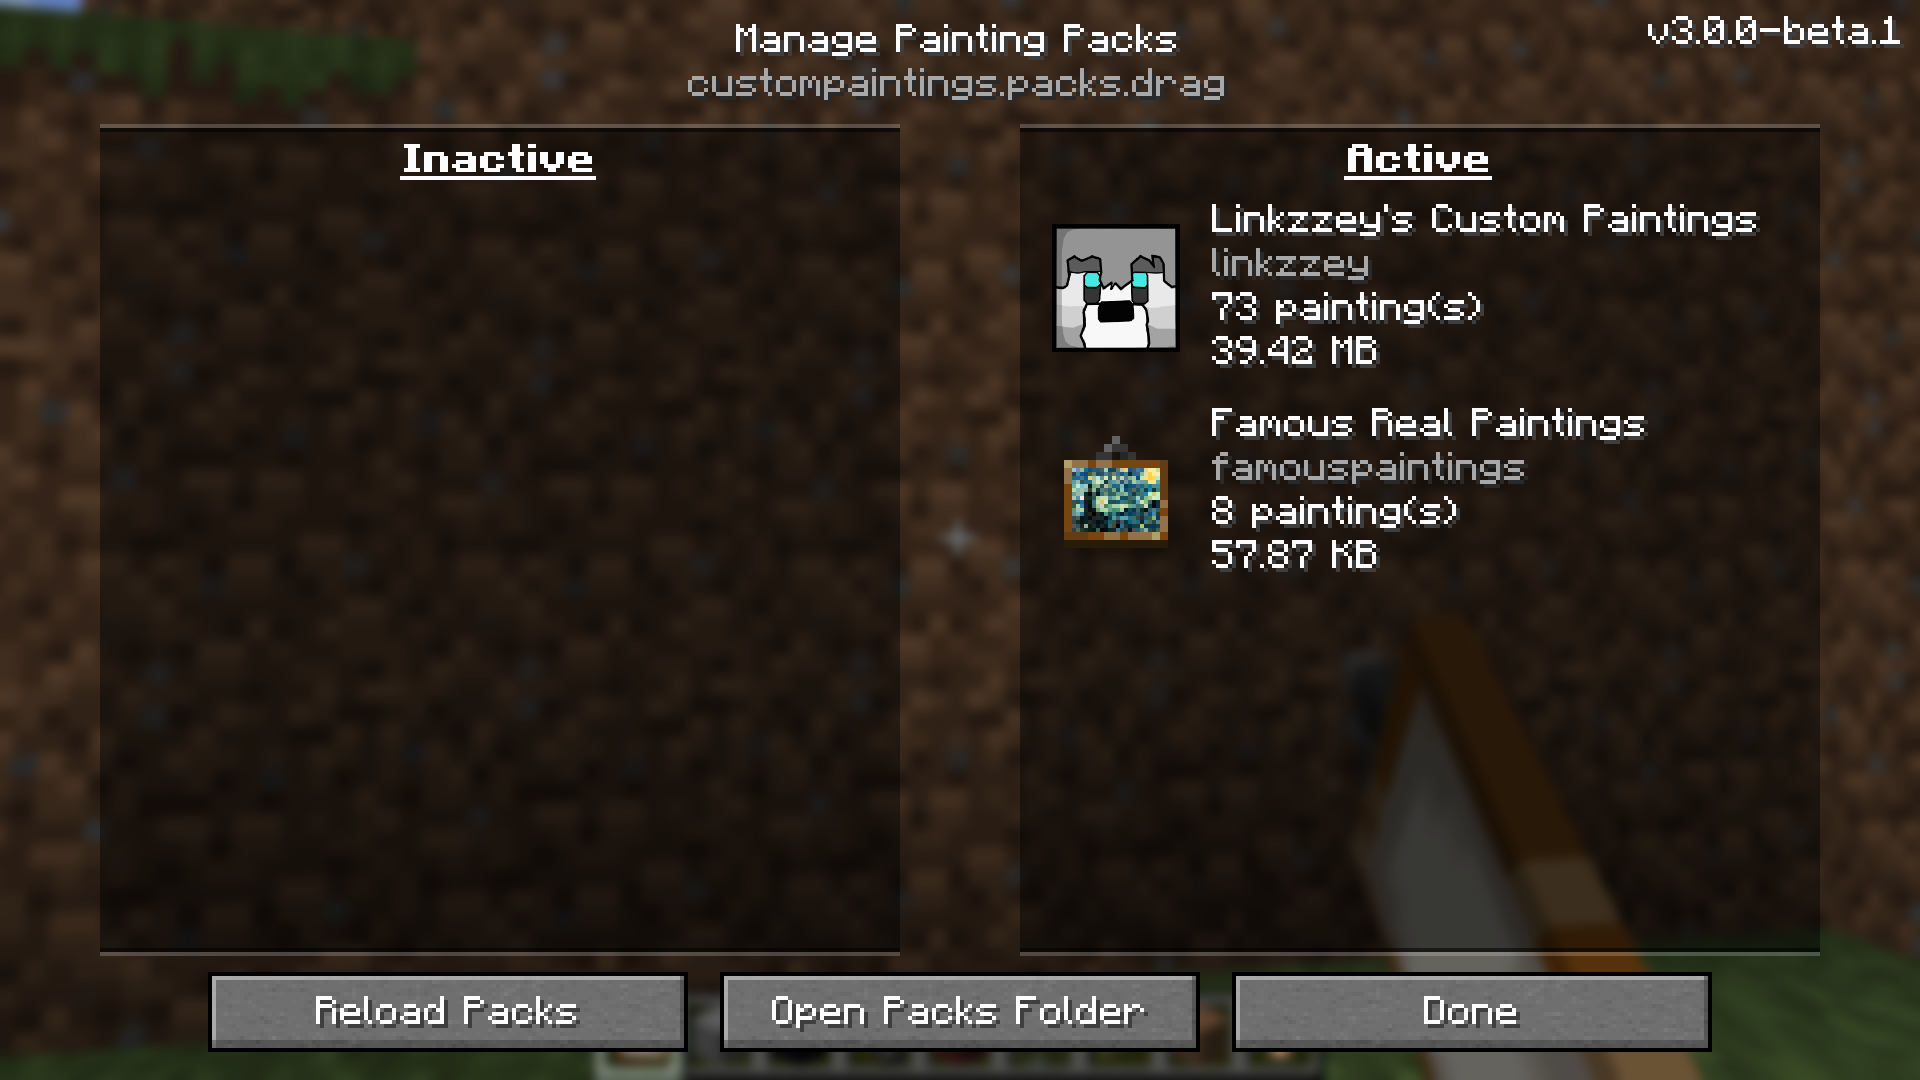
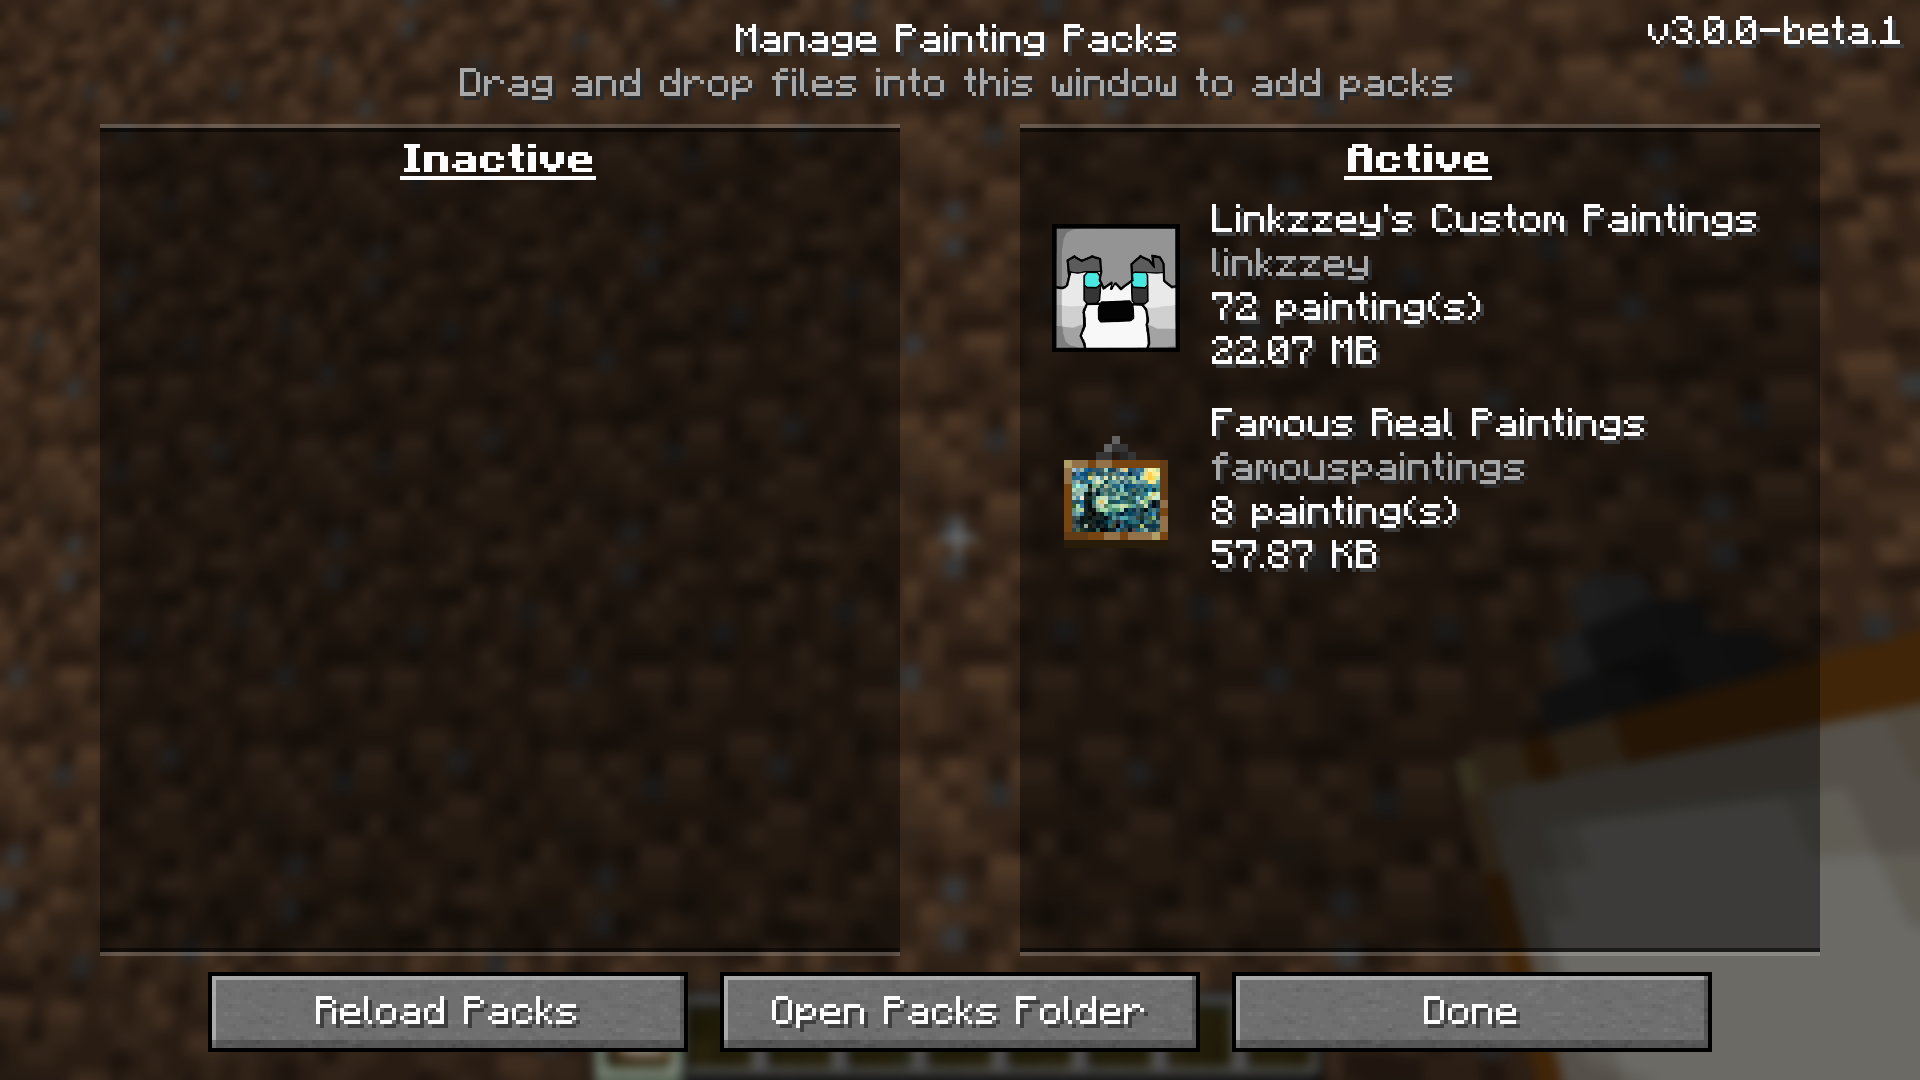
Finished mod description page

diff --git a/assets/modrinth.md b/assets/modrinth.md
@@ -168,7 +168,8 @@ Open the `custompaintings.json` file and fill it with contents that look somethi
 
 #### Pack properties
 
-`id`: `Text; alphanumeric, underscores, and dashes only` - The unique ID of the painting pack. This must be different from all
+`id`: `Text; alphanumeric, underscores, and dashes only` - The unique ID of the painting pack. This must be different
+from all
 other painting packs (and different from the mod IDs for other fabric mods that add custom paintings).
 
 `name`: `Text (optional)` - The name to show in the painting picker for this pack. If omitted the UI will simply
@@ -187,7 +188,8 @@ split large packs into multiple smaller ones.
 
 Each painting will need its own properties defined to tell the mod how the paintings should be displayed in game.
 
-`id`: `Text; alphanumeric, underscores, and dashes only` - The unique ID of the painting. This should correspond to the name of the
+`id`: `Text; alphanumeric, underscores, and dashes only` - The unique ID of the painting. This should correspond to the
+name of the
 painting's PNG image file in the pack's "images" folder (without the '.png').
 
 `name`: `Text (optional)` - The name of the painting.
@@ -204,11 +206,18 @@ painting would have a value of 3.
 
 The mod ships with a main menu to access a suite of utilities for working with the mod. If you
 have [Mod Menu](https://modrinth.com/mod/modmenu) installed, you'll find the main menu from the mod's configure button
-in the mods list. Otherwise, you can configure a keybind (`U` key by default) in Minecraft's vanilla keybinds menu which
-will open the Custom Paintings main menu on key press.
+in the mods list.
 
 ![](https://raw.githubusercontent.com/Roundaround/mc-fabric-custom-paintings/refs/heads/main/assets/screenshots/3_0_0/modmenu.png)
+
+Otherwise, you can configure a keybind (`U` key by default) in Minecraft's vanilla keybinds menu which
+will open the Custom Paintings main menu on key press.
+
 ![](https://raw.githubusercontent.com/Roundaround/mc-fabric-custom-paintings/refs/heads/main/assets/screenshots/3_0_0/keybind.png)
+
+Both of these options will open up the mod's main menu with buttons to navigate to all the configuration, management,
+and utilities you need for working with the Custom Paintings mod!
+
 ![](https://raw.githubusercontent.com/Roundaround/mc-fabric-custom-paintings/refs/heads/main/assets/screenshots/3_0_0/mainmenu.png)
 
 ### Mod configuration
@@ -281,13 +290,28 @@ image network packet that can be sent to clients, in KB. Only applies when `thro
 
 ### Enabling or disabling packs, or adding a pack to your world
 
+Opening the packs screen will show you a summary of all the packs available in your world/server. For single player and
+if you have OP permission on a server, you'll see something that resembles the resource packs screen, giving you the
+ability to enable and disable packs without having to mess with the files.
+
+On single player worlds, you'll also have the ability to drag and drop packs onto the game to add them to the world
+directly.
+
 ![](https://raw.githubusercontent.com/Roundaround/mc-fabric-custom-paintings/refs/heads/main/assets/screenshots/3_0_0/manage-packs.png)
 
 ### Converting old (pre-3.0.0) packs to the new format
 
+If you already have painting packs for a previous version of the mod that used a resource-pack system, the mod can help
+you migrate the packs to the new format and even directly add them into your world.
+
 ![](https://raw.githubusercontent.com/Roundaround/mc-fabric-custom-paintings/refs/heads/main/assets/screenshots/3_0_0/manage-legacy.png)
 
 ## Uninstalling this mod and data integrity
+
+Starting with v3.0.0, Custom Paintings now stores all your painting choices and relevant data in separate files within
+your world's save folder. This means it is safe to load the game without the mod installed (i.e. after upgrading to a
+new Minecraft version) without risk of losing your data! When you decide to install the mod again, all the data will be
+loaded and your paintings will be restored.
 
 -----
 
